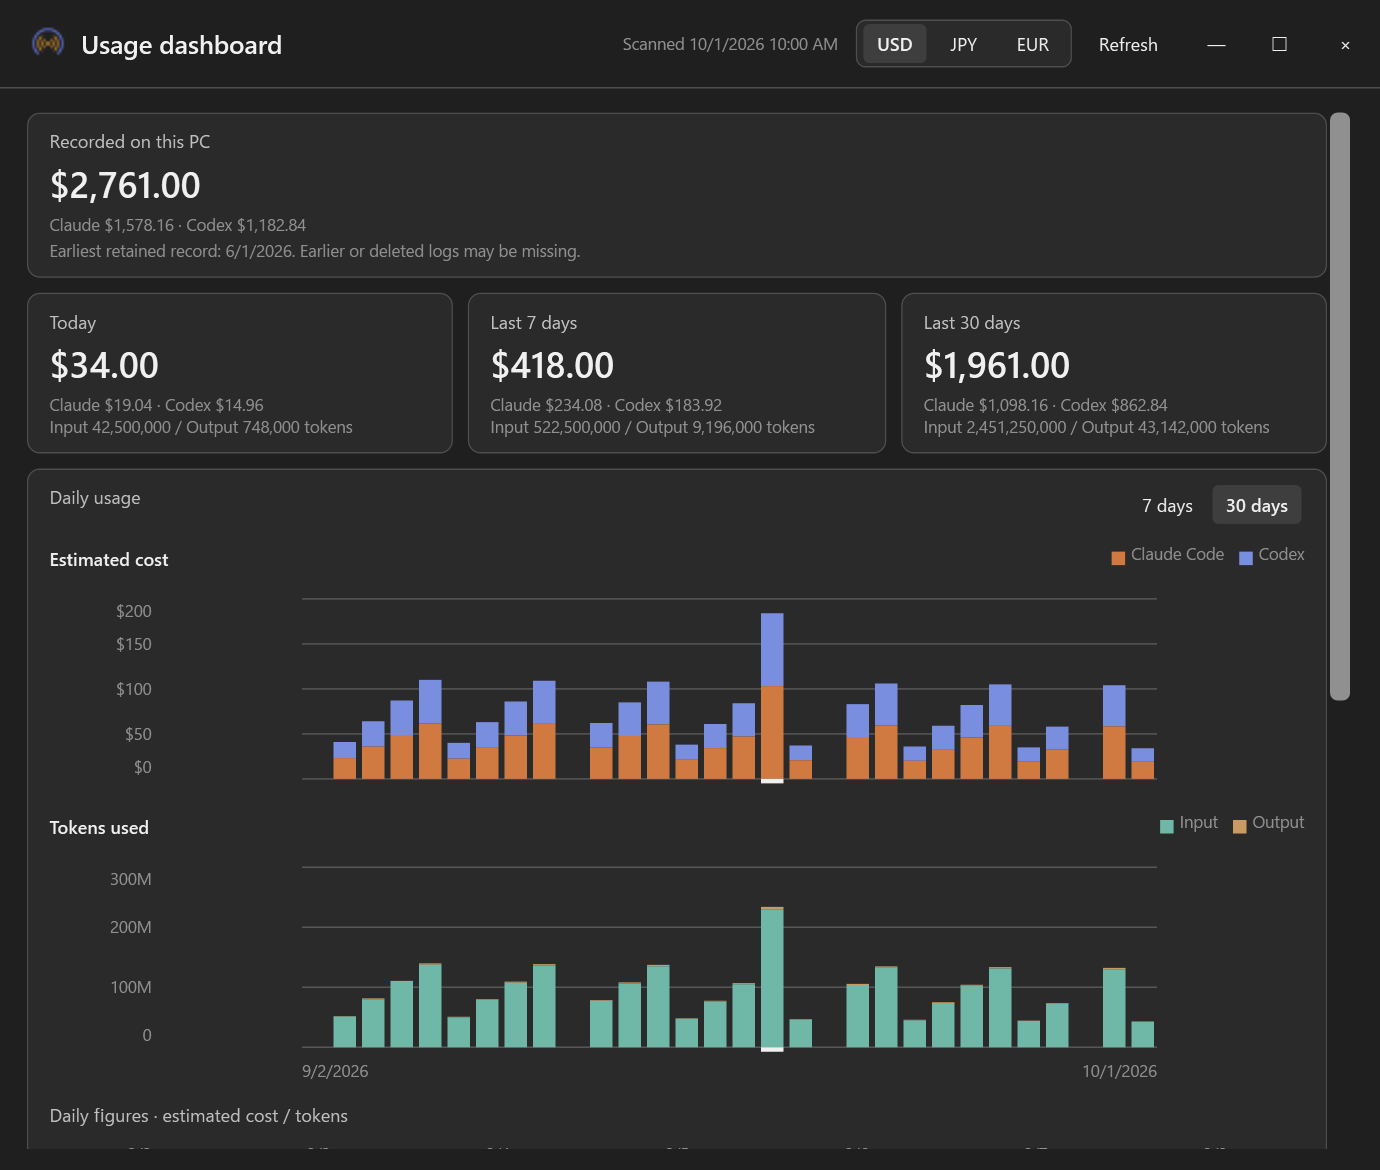
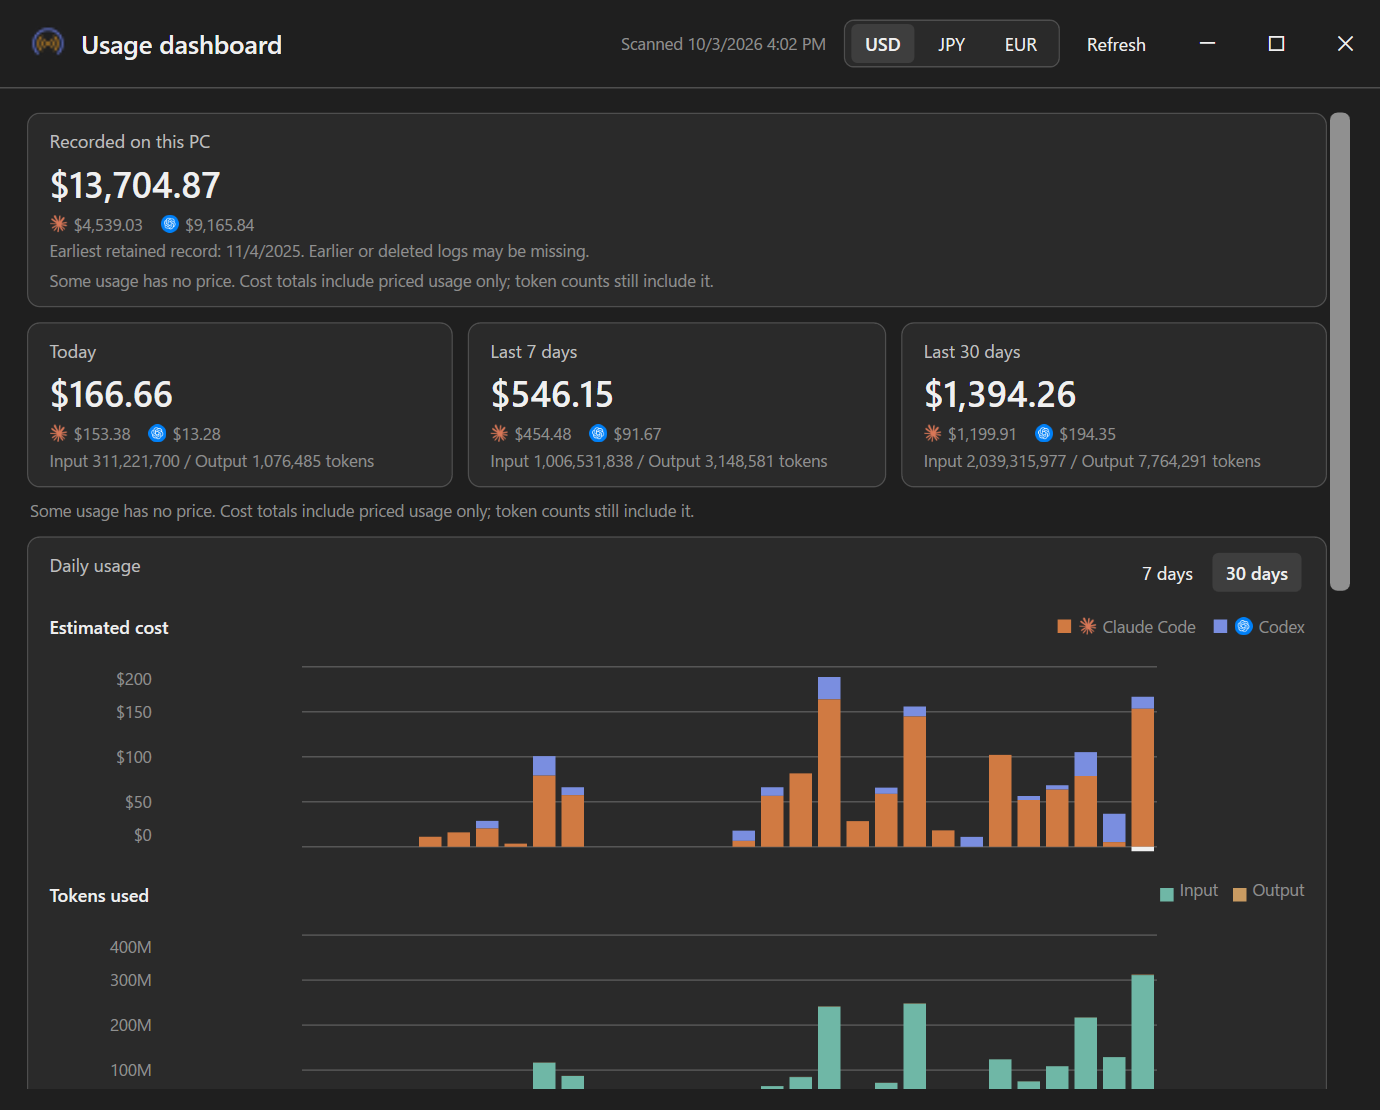
[🍱] Recapture README screenshots with real usage
- Recapture the widget, popup, and dashboard images from the running app
- Show the Antigravity quota in the widget and popup images
- Describe Antigravity support in the README tagline and screenshot text

diff --git a/README.md b/README.md
@@ -4,7 +4,7 @@
 
 # UsageBeacon
 
-*Keep Claude Code and Codex usage on your Windows taskbar*
+*Keep Claude Code, Codex, and Antigravity usage on your Windows taskbar*
 
 [![CI](https://img.shields.io/github/actions/workflow/status/kmch4n/UsageBeacon/ci.yml?branch=main&style=flat-square&label=CI)](https://github.com/kmch4n/UsageBeacon/actions/workflows/ci.yml)
 [![Release](https://img.shields.io/github/v/release/kmch4n/UsageBeacon?style=flat-square)](https://github.com/kmch4n/UsageBeacon/releases/latest)
@@ -14,12 +14,12 @@
 
 [Features](#features) • [Install](#install) • [Usage](#usage) • [Dashboard](#usage-dashboard) • [Privacy](#data-and-privacy)
 
-<img src="docs/images/popup.png" alt="UsageBeacon popup showing Claude Code and Codex usage windows" width="340">
+<img src="docs/images/popup.png" alt="UsageBeacon popup showing Claude Code, Codex, and Antigravity (Gemini) usage windows" width="340">
 
 </div>
 
-UsageBeacon is a lightweight Windows app that keeps your Claude Code and Codex usage where you can
-actually see it. A small widget sits on the taskbar; clicking it opens a popup with the five-hour and
+UsageBeacon is a lightweight Windows app that keeps your Claude Code and Codex usage, and optionally
+your Antigravity Gemini quota, where you can actually see it. A small widget sits on the taskbar; clicking it opens a popup with the five-hour and
 weekly windows, reset countdowns, manual refresh, and local settings. A separate dashboard estimates
 what that usage would have cost at API prices.
 
@@ -49,13 +49,14 @@ default and can be turned on from the popup settings.
 
 ## Screenshots
 
-The widget updates on your chosen interval. This example has the optional weekly display enabled;
-each service shows its five-hour percentage on the left and its weekly percentage on the right:
+The widget updates on your chosen interval. This example has the optional weekly display and
+Antigravity enabled; each service shows its five-hour percentage on the left and its weekly
+percentage on the right:
+
+<img src="docs/images/widget.png" alt="UsageBeacon widget showing five-hour and weekly percentages for Claude, Codex, and Antigravity" width="461">
 
 If the selected taskbar has no safe space, the widget hides until a space becomes available;
 the notification-area icon remains available.
-
-<img src="docs/images/widget.png" alt="UsageBeacon widget showing five-hour and weekly percentages for Claude and Codex" width="321">
 
 The dashboard puts locally retained lifetime, today, 7-day, and 30-day estimates above aligned
 cost and token charts:
@@ -68,8 +69,7 @@ Select a day to see its service split and exact input and output totals:
 <img src="docs/images/dashboard-daily.png" alt="Daily cost and token figures with selected-day details in the UsageBeacon dashboard" width="820">
 
 > [!NOTE]
-> These screenshots were captured from the app with illustrative usage data. They do not show the
-> author's usage history.
+> These screenshots were captured from the running app with the maintainer's actual usage.
 
 ## Requirements
 
